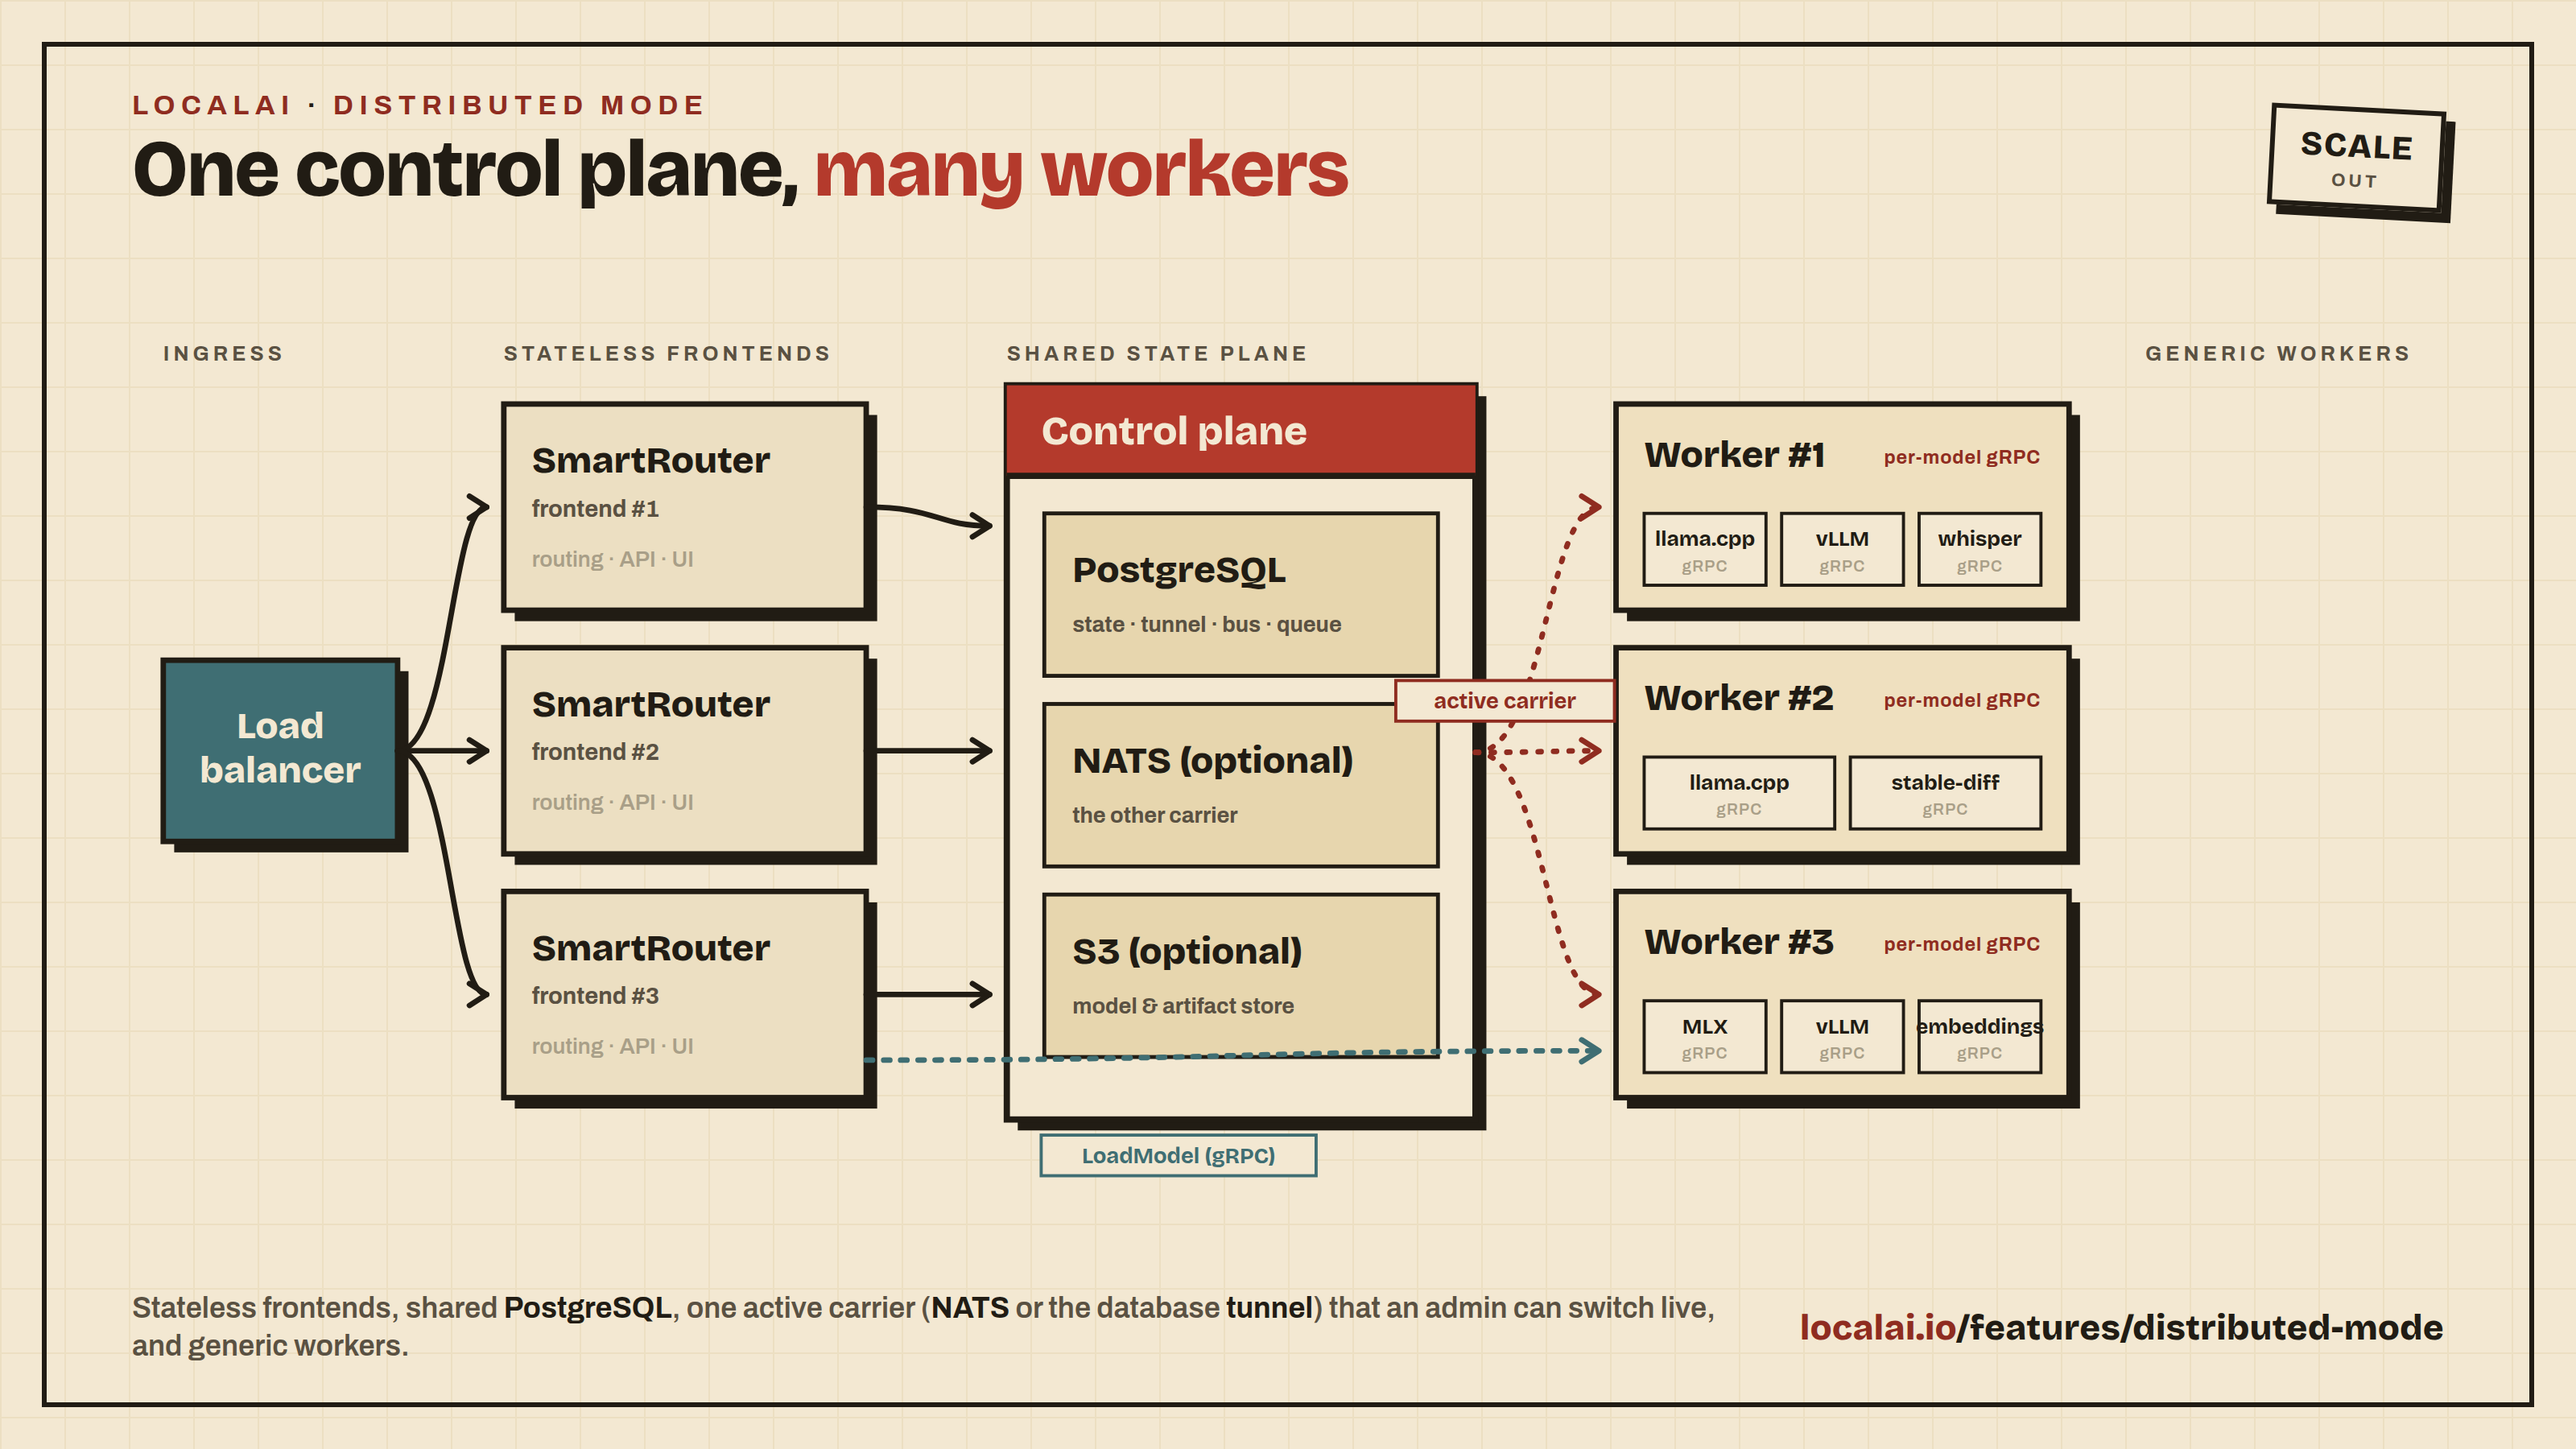
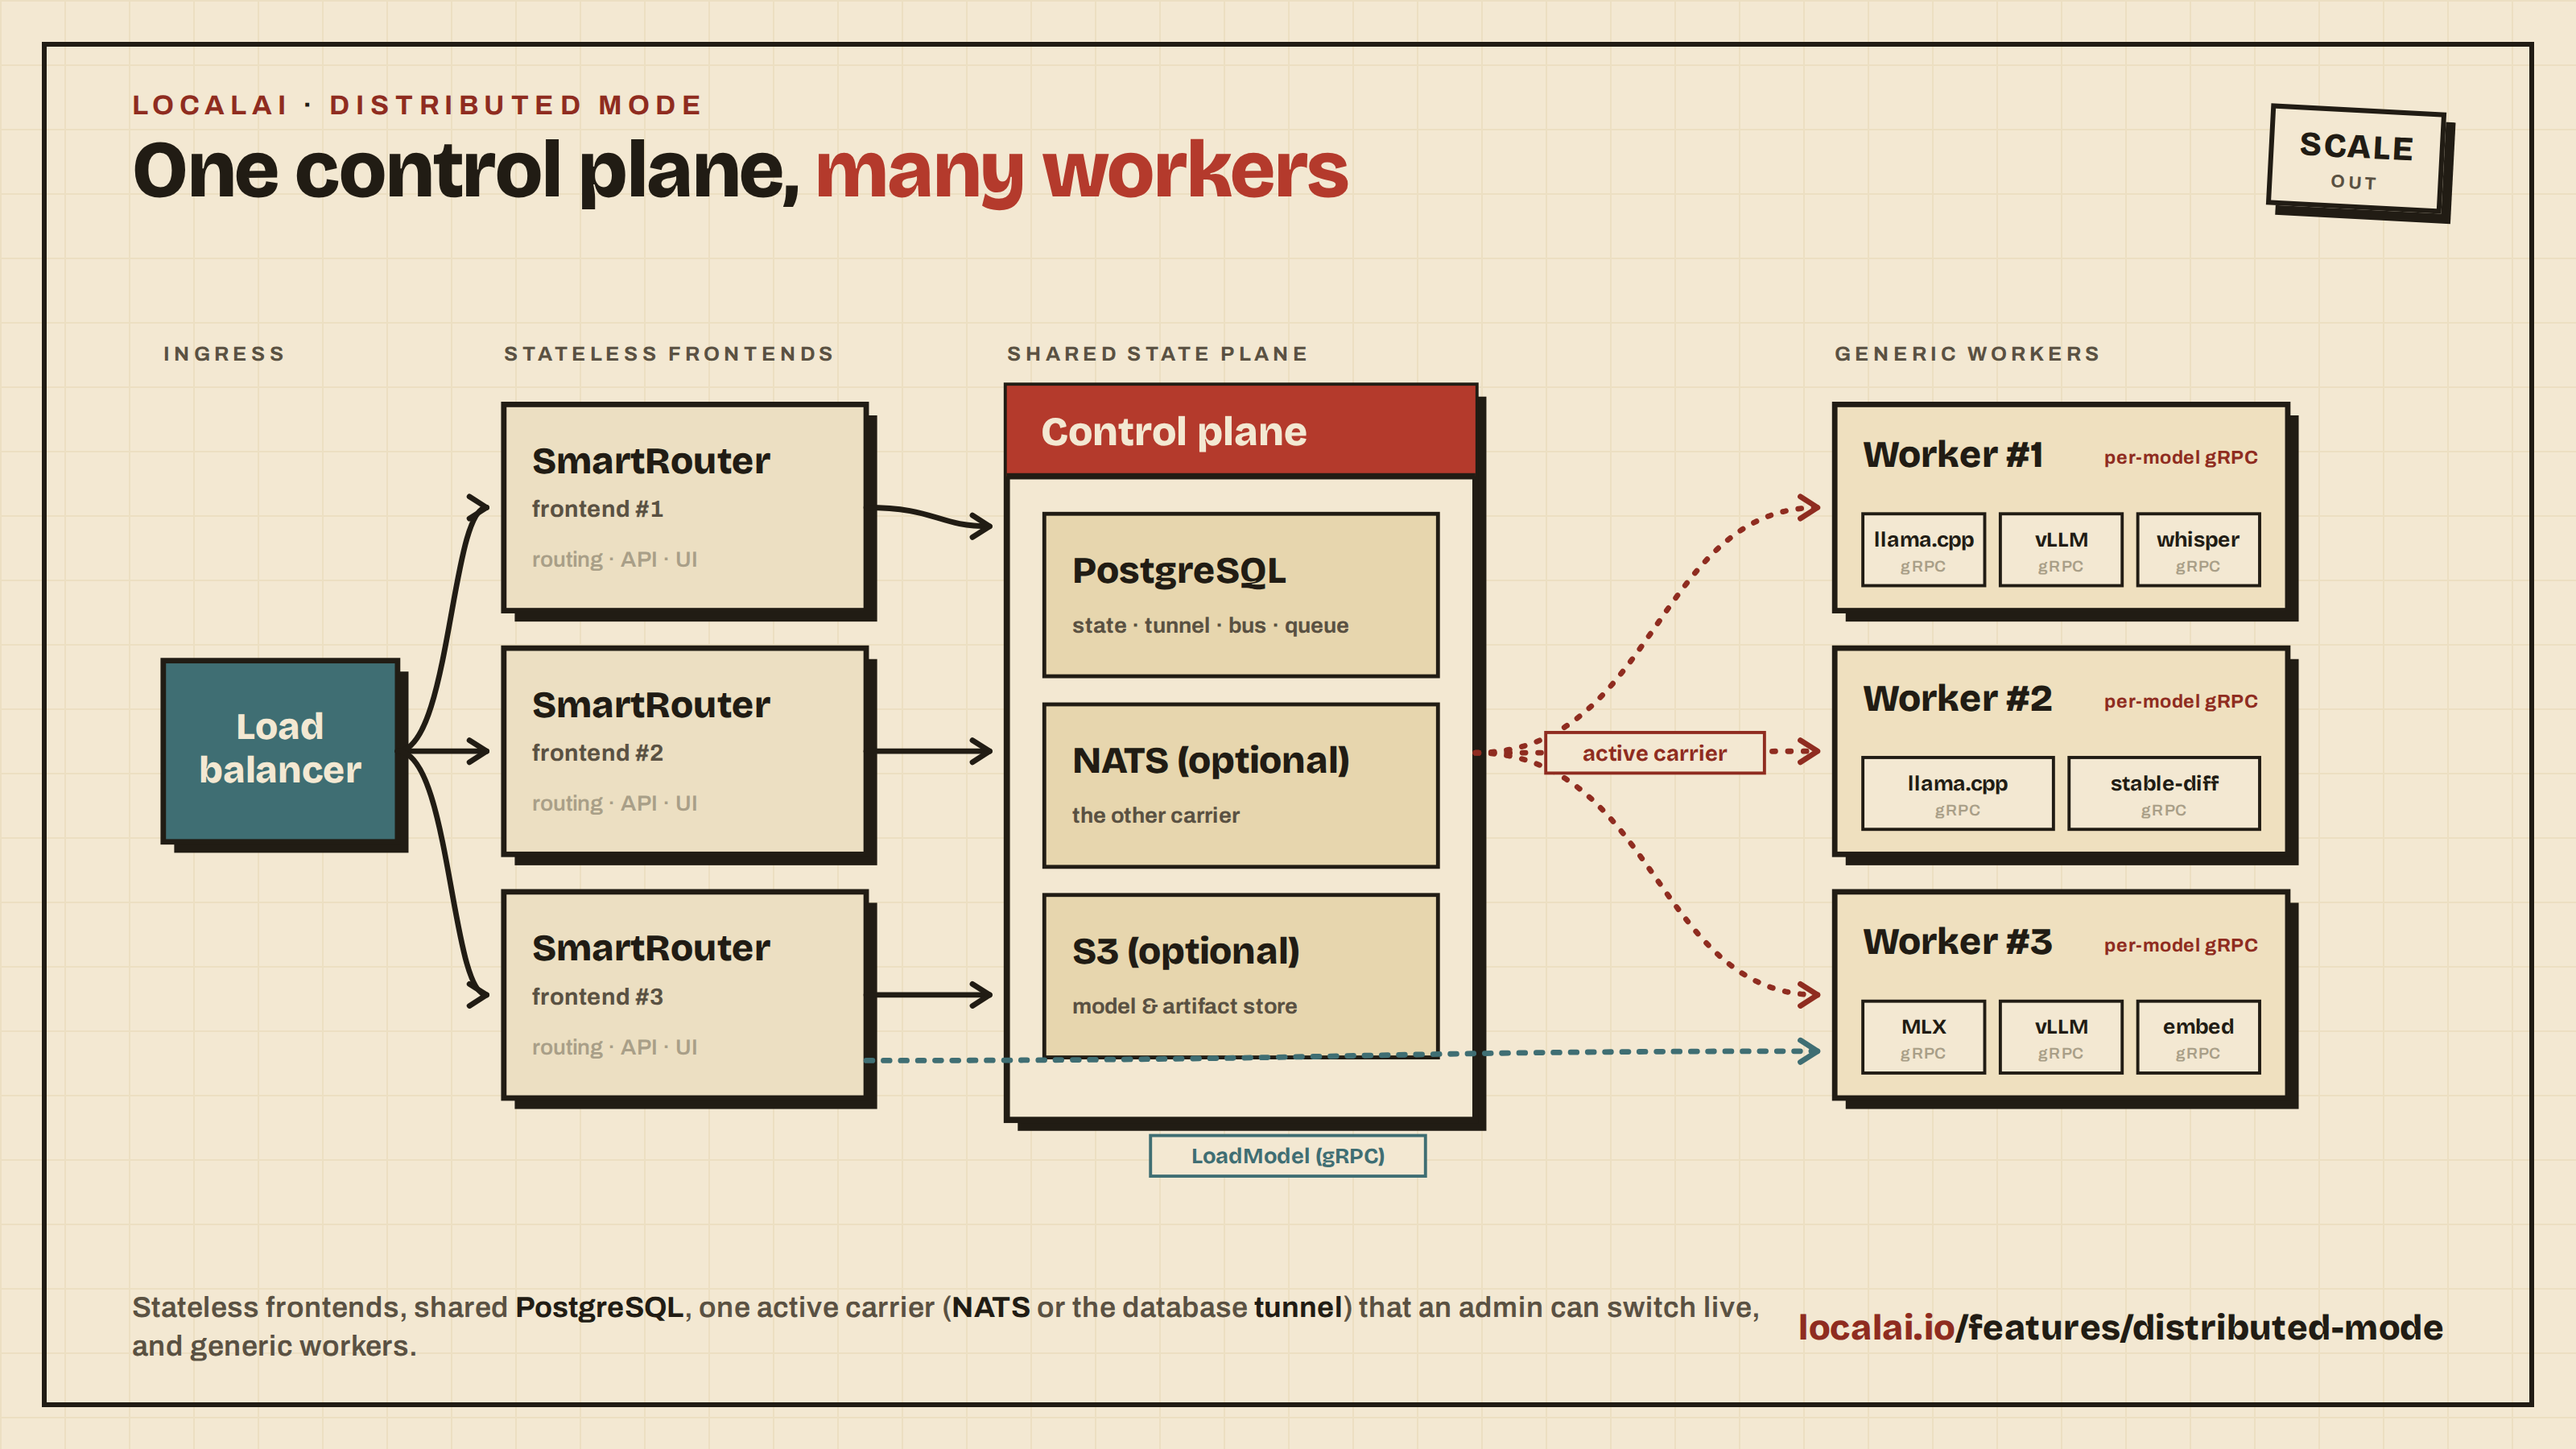
docs(distributed): move the active carrier label off the worker boxes
The "active carrier" label of the architecture diagram sat on the edge of
the Worker #2 box. Move the workers to the right, so the gap between the
control plane and the workers holds the label, and put the label on the
middle dashed line. The "embeddings" chip of Worker #3 was wider than its
box, so it now reads "embed". The PNG is rendered again from the HTML.

Assisted-by: Claude Code:claude-sonnet-5-5

diff --git a/docs/static/images/diagrams/distributed-mode-arch.html b/docs/static/images/diagrams/distributed-mode-arch.html
@@ -119,12 +119,13 @@ chips.forEach(c=>{
 });
 
 // ---------- WORKERS ----------
-txt(1460,30,"GENERIC WORKERS",{w:700,sz:13,ls:".2em",a:"end",fill:SOFT});
-const WX=950, WW=290, WH=132, wY=[58,214,370];
+const WX=1090, WW=290, WH=132;
+txt(WX,30,"GENERIC WORKERS",{w:700,sz:13,ls:".2em",fill:SOFT});
+const wY=[58,214,370];
 const workerChips=[
   ["llama.cpp","vLLM","whisper"],
   ["llama.cpp","stable-diff"],
-  ["MLX","vLLM","embeddings"],
+  ["MLX","vLLM","embed"],
 ];
 wY.forEach((y,i)=>{
   shadowRect(WX,y,WW,WH,"#EFE0BF",INK,3.5);
@@ -156,7 +157,7 @@ fY.forEach((y)=>{
 const natsY = SPY+SPH/2; // the carrier leaves the plane, not one chip
 wY.forEach((y)=> arrow(SPX+SPW, natsY, WX, y+WH/2, RUSTD, "2 8"));
 // label the NATS bus arrows
-const labW=140, labH=26, labX=(SPX+SPW+WX)/2-labW/2-26, labY=natsY-46;
+const labW=140, labH=26, labX=(SPX+SPW+WX)/2-labW/2, labY=natsY-labH/2;
 svg.appendChild(el("rect",{x:labX,y:labY,width:labW,height:labH,fill:PAPER,stroke:RUSTD,"stroke-width":2}));
 txt(labX+labW/2,labY+18,"active carrier",{f:"Bricolage Grotesque",w:700,sz:14,a:"middle",fill:RUSTD});
 
